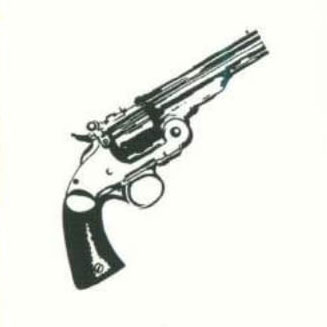
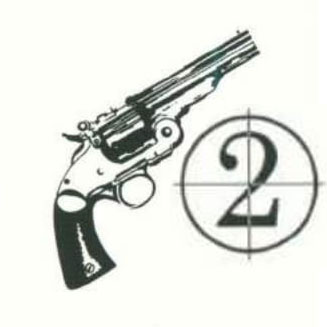
Added weapons

Changed region(s): [[0.1529, 0.0917, 1.0, 0.8869]]

diff --git a/index.html b/index.html
@@ -42,6 +42,9 @@
                                 <div class="buff buff-5"></div>
                             </div>
                         </div>
+                        <div class="weapon-wrap">
+                            <div class="weapon"></div>
+                        </div>
                     </div>
                 </div>
                 <div class="player moved">
@@ -72,6 +75,9 @@
                             <div class="buff-wrap">
                                 <div class="buff buff-reverse-5"></div>
                             </div>
+                        </div>
+                        <div class="weapon-wrap">
+                            <div class="weapon weapon-right"></div>
                         </div>
                     </div>
                 </div>
@@ -105,6 +111,9 @@
                             <div class="buff-wrap">
                                 <div class="buff buff-5"></div>
                             </div>
+                        </div>
+                        <div class="weapon-wrap">
+                            <div class="weapon"></div>
                         </div>
                     </div>
                 </div>
@@ -137,6 +146,9 @@
                                 <div class="buff buff-reverse-5"></div>
                             </div>
                         </div>
+                        <div class="weapon-wrap">
+                            <div class="weapon weapon-right"></div>
+                        </div>
                     </div>
                 </div>
             </div>
@@ -170,6 +182,9 @@
                                 <div class="buff buff-5"></div>
                             </div>
                         </div>
+                        <div class="weapon-wrap">
+                            <div class="weapon"></div>
+                        </div>
                     </div>
                 </div>
                 <div class="player moved">
@@ -200,6 +215,9 @@
                             <div class="buff-wrap">
                                 <div class="buff buff-reverse-5"></div>
                             </div>
+                        </div>
+                        <div class="weapon-wrap">
+                            <div class="weapon weapon-right"></div>
                         </div>
                     </div>
                 </div>

diff --git a/resources/css/style.css b/resources/css/style.css
@@ -29,7 +29,7 @@ html {
 }
 
 .player {
-    margin: 1rem 0 5rem 0;
+    margin: 1rem 0 0 0;
     padding-top: 0.5rem;
 }
 
@@ -83,6 +83,51 @@ html {
     -moz-box-shadow: 0px 0px 8px 0px rgba(118, 232, 151, 0.75);
     box-shadow: 0px 0px 8px 0px rgba(118, 232, 151, 0.75);
     border: 2px solid #76E897;
+}
+
+/* WEAPON SETUP */
+
+.weapon-wrap {
+    width: 52px;
+    height: 52px;
+}
+
+.weapon-right {
+    left: 130px;
+}
+
+.weapon {
+    width: 50px;
+    height: 50px;
+    background: url("../images/cards/cropped/scoffield_cropped.jpg") no-repeat;
+    background-size: 100% 100%;
+    position: relative;
+    transition: all 0.5s cubic-bezier(0.19, 1, 0.22, 1);  
+    border-radius: 50%;
+    border: 1px solid #68abf8;
+    -webkit-box-shadow: 0px 0px 15px 2px rgba(0,0,0,0.75);
+    -moz-box-shadow: 0px 0px 15px 2px rgba(0,0,0,0.75);
+    box-shadow: 0px 0px 15px 2px rgba(0,0,0,0.75);
+    bottom: 35px;
+    right: 10px;
+}
+
+.weapon:hover {
+    transition: all 0.5s cubic-bezier(0.175, 0.885, 0.32, 1.275);
+    width: 208px;
+    height: 330px;
+    background: url("../images/cards/full/scoffield.png") no-repeat;
+    background-size: 100% 100%;
+    display: inline-block;
+    z-index: 15;
+    border-radius: 0;
+    -webkit-box-shadow: none;
+    -moz-box-shadow: none;
+    box-shadow: none;
+    -webkit-filter: drop-shadow(0px 0px 3px #000);
+    filter: drop-shadow(0px 0px 3px #000);
+    border: none;
+    cursor: pointer;
 }
 
 /* BUFFS SETUP */
